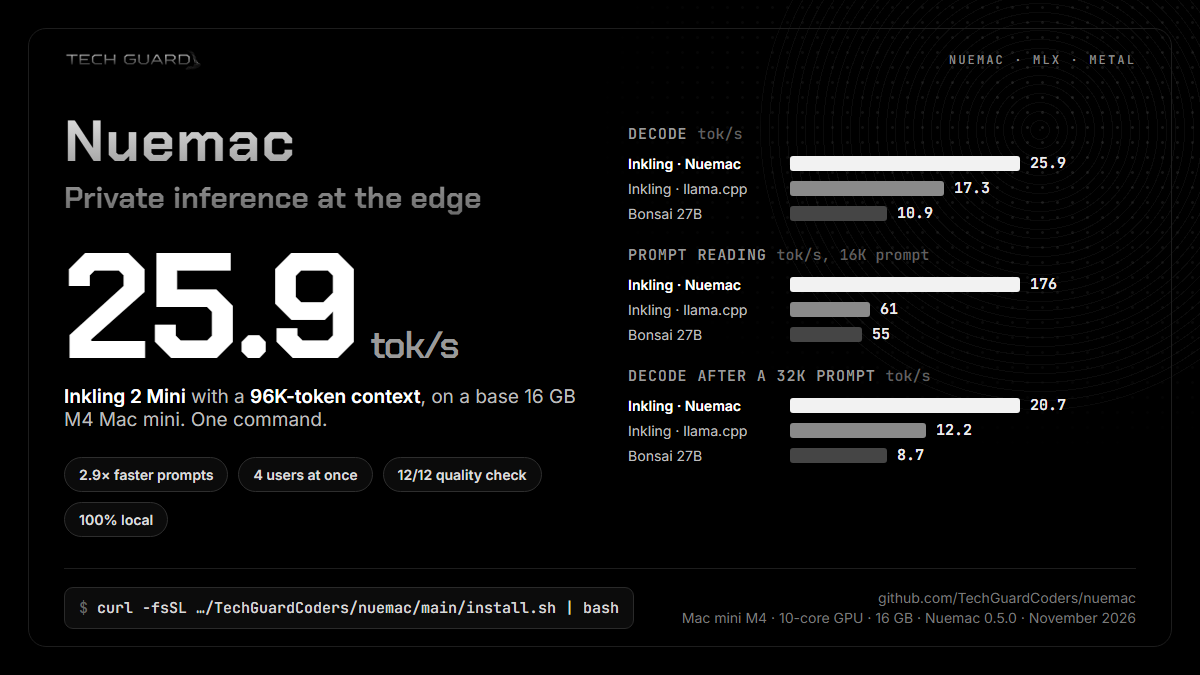
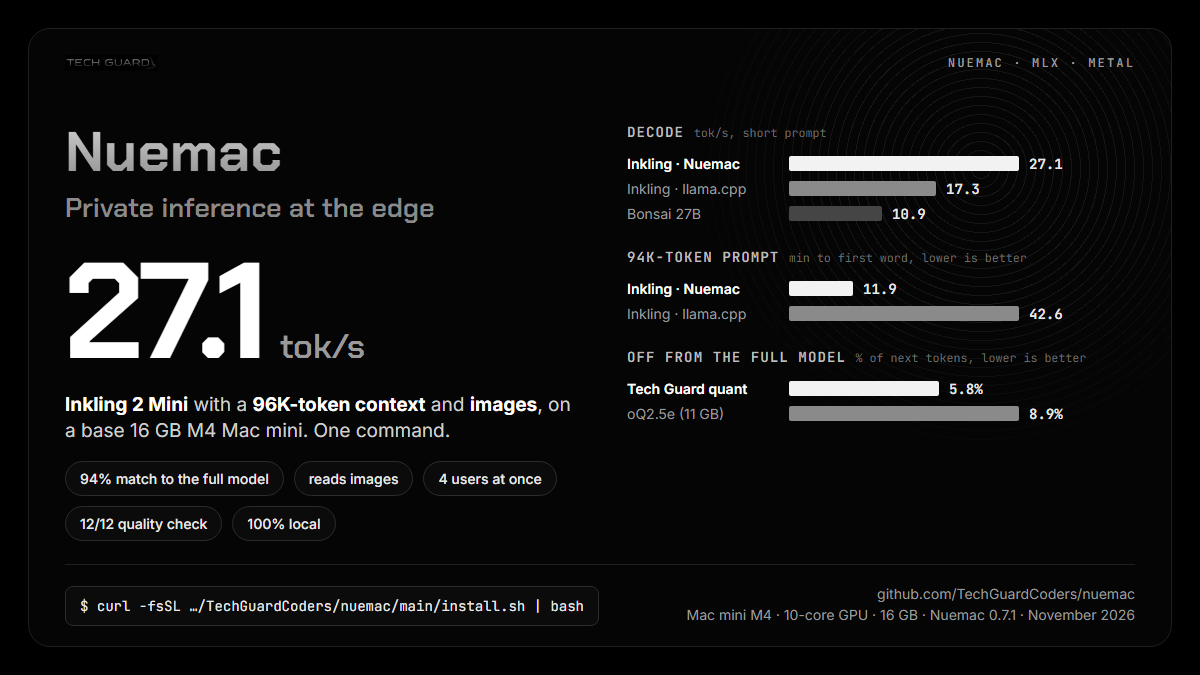
Nuemac 0.7.1: Tech Guard quant as the 16 GB default, agent installs
- inkling-2-mini-tg: Techguardai/Inkling-2-Mini-TG-MLX@dceee3c (11.2 GB text + released vision tower),
  94.2% top-1 agreement with the full model (oQ2.5e 91.1%), 27.1 tok/s on a base 16 GB M4; installer default on 16 GB
- install.sh --yes for scripts and AI agents; sudo -n without a terminal, NEEDS A PERSON message otherwise
- AGENTS.md; README, landing page, supported models, changelog; new infographic (source in docs/assets)

diff --git a/docs/assets/infographic.html b/docs/assets/infographic.html
@@ -1,0 +1,68 @@
+<!doctype html>
+<html><head><meta charset="utf-8">
+<link href="https://fonts.googleapis.com/css2?family=Chakra+Petch:wght@500;600;700&family=Inter:wght@400;500;600;700&family=JetBrains+Mono:wght@400;600&display=swap" rel="stylesheet">
+<style>
+*{box-sizing:border-box}
+html,body{margin:0;width:1200px;height:675px;background:#000;color:#e9e9e9;font-family:Inter,sans-serif;overflow:hidden}
+.card{position:absolute;inset:28px;border:1px solid #1f1f1f;border-radius:22px;background:#050505;overflow:hidden}
+.rings{position:absolute;right:-120px;top:-170px;width:620px;height:620px;border-radius:50%;
+  background:repeating-radial-gradient(circle,rgba(255,255,255,.07) 0 1px,transparent 1px 9px);
+  -webkit-mask:radial-gradient(circle,#000 30%,transparent 70%);mask:radial-gradient(circle,#000 30%,transparent 70%)}
+.top{position:absolute;left:36px;right:36px;top:26px;display:flex;justify-content:space-between;align-items:center}
+.top img{height:16px;opacity:.75}
+.top .tag{font:600 12px "JetBrains Mono",monospace;letter-spacing:.18em;color:#9a9a9a}
+.left{position:absolute;left:36px;top:86px;width:520px}
+h1{font:700 56px "Chakra Petch",sans-serif;margin:0;background:linear-gradient(#d6d6d6,#8a8a8a);-webkit-background-clip:text;color:transparent}
+.sub{font:600 27px "Chakra Petch",sans-serif;color:#8a8a8a;margin-top:2px}
+.big{display:flex;align-items:baseline;gap:14px;margin-top:22px}
+.big b{font:700 136px/0.95 "Chakra Petch",sans-serif;color:#fff;letter-spacing:-.02em}
+.big span{font:600 34px "Chakra Petch",sans-serif;color:#9a9a9a}
+.lede{font-size:19px;line-height:1.35;margin-top:16px;color:#cfcfcf}
+.lede strong{color:#fff}
+.chips{display:flex;flex-wrap:wrap;gap:10px;margin-top:18px;width:500px}
+.chips div{font:500 14px Inter,sans-serif;border:1px solid #2c2c2c;border-radius:999px;padding:8px 14px;color:#e9e9e9;background:#0b0b0b}
+.right{position:absolute;left:598px;top:94px;width:520px}
+.grp{margin-bottom:22px}
+.grp h4{font:600 14px "JetBrains Mono",monospace;letter-spacing:.08em;color:#bdbdbd;margin:0 0 10px;text-transform:uppercase}
+.grp h4 small{text-transform:none;letter-spacing:0;color:#6b6b6b;font-weight:400}
+.row{display:grid;grid-template-columns:162px 1fr;align-items:center;height:25px;font-size:14px;color:#9a9a9a}
+.row.us{color:#fff;font-weight:600}
+.bar{display:flex;align-items:center;gap:10px}
+.bar i{display:block;height:15px;border-radius:2px}
+.bar em{font:600 14px "JetBrains Mono",monospace;font-style:normal;color:#e9e9e9}
+.a i{background:#f2f2f2}.c i{background:#8a8a8a}.b i{background:#454545}
+.foot{position:absolute;left:36px;right:36px;bottom:20px;border-top:1px solid #1f1f1f;padding-top:18px;display:flex;justify-content:space-between;align-items:flex-end}
+.cmd{font:400 14px "JetBrains Mono",monospace;border:1px solid #2c2c2c;border-radius:8px;padding:10px 14px;background:#0b0b0b;color:#e9e9e9}
+.meta{text-align:right;font-size:14px;color:#9a9a9a;line-height:1.55}
+</style></head><body>
+<div class="card">
+  <div class="rings"></div>
+  <div class="top"><img src="techguard-wordmark.png" alt=""><div class="tag">NUEMAC · MLX · METAL</div></div>
+  <div class="left">
+    <h1>Nuemac</h1>
+    <div class="sub">Private inference at the edge</div>
+    <div class="big"><b>27.1</b><span>tok/s</span></div>
+    <div class="lede"><strong>Inkling 2 Mini</strong> with a <strong>96K-token context</strong> and <strong>images</strong>, on a base 16 GB M4 Mac mini. One command.</div>
+    <div class="chips"><div>94% match to the full model</div><div>reads images</div><div>4 users at once</div><div>12/12 quality check</div><div>100% local</div></div>
+  </div>
+  <div class="right">
+    <div class="grp"><h4>Decode <small>tok/s, short prompt</small></h4>
+      <div class="row us"><span>Inkling · Nuemac</span><div class="bar a"><i style="width:230px"></i><em>27.1</em></div></div>
+      <div class="row"><span>Inkling · llama.cpp</span><div class="bar c"><i style="width:147px"></i><em>17.3</em></div></div>
+      <div class="row"><span>Bonsai 27B</span><div class="bar b"><i style="width:93px"></i><em>10.9</em></div></div>
+    </div>
+    <div class="grp"><h4>94K-token prompt <small>min to first word, lower is better</small></h4>
+      <div class="row us"><span>Inkling · Nuemac</span><div class="bar a"><i style="width:64px"></i><em>11.9</em></div></div>
+      <div class="row"><span>Inkling · llama.cpp</span><div class="bar c"><i style="width:230px"></i><em>42.6</em></div></div>
+    </div>
+    <div class="grp"><h4>Off from the full model <small>% of next tokens, lower is better</small></h4>
+      <div class="row us"><span>Tech Guard quant</span><div class="bar a"><i style="width:150px"></i><em>5.8%</em></div></div>
+      <div class="row"><span>oQ2.5e (11 GB)</span><div class="bar c"><i style="width:230px"></i><em>8.9%</em></div></div>
+    </div>
+  </div>
+  <div class="foot">
+    <div class="cmd">$ curl -fsSL …/TechGuardCoders/nuemac/main/install.sh | bash</div>
+    <div class="meta">github.com/TechGuardCoders/nuemac<br>Mac mini M4 · 10-core GPU · 16 GB · Nuemac 0.7.1 · November 2026</div>
+  </div>
+</div>
+</body></html>

diff --git a/docs/index.html b/docs/index.html
@@ -4,9 +4,9 @@
 <meta charset="utf-8">
 <meta name="viewport" content="width=device-width, initial-scale=1">
 <title>Nuemac: private inference at the edge</title>
-<meta name="description" content="Nuemac: private inference at the edge. A local LLM engine that brings 16 GB Macs to life. Inkling 2 Mini at 25.9 tok/s with a 96K context on a base 16 GB M4 Mac mini, up to 4 requests at once, now reading images.">
+<meta name="description" content="Nuemac: private inference at the edge. A local LLM engine that brings 16 GB Macs to life. Inkling 2 Mini at 27.1 tok/s with a 96K context and images on a base 16 GB M4 Mac mini, 94% match to the full model, up to 4 requests at once.">
 <meta property="og:title" content="Nuemac: private inference at the edge">
-<meta property="og:description" content="Inkling 2 Mini at 25.9 tok/s with a 96K context on a base 16 GB M4 Mac mini. Up to 4 requests at once. Reads images. One command. MLX with custom Metal kernels.">
+<meta property="og:description" content="Inkling 2 Mini at 27.1 tok/s with a 96K context on a base 16 GB M4 Mac mini, 94% match to the full model. Up to 4 requests at once. Reads images. One command. MLX with custom Metal kernels.">
 <meta property="og:image" content="https://techguardcoders.github.io/nuemac/assets/infographic.png">
 <meta name="twitter:card" content="summary_large_image">
 <link rel="icon" href="assets/tg-monogram.png">
@@ -137,15 +137,15 @@ footer img{height:16px;opacity:.8}
           <code id="cmd"><span class="p">$ </span>curl -fsSL https://raw.githubusercontent.com/TechGuardCoders/nuemac/main/install.sh | bash</code>
           <button class="copy" id="copy" type="button">Copy</button>
         </div>
-        <div class="sub">Installs oMLX (Homebrew) and Nuemac, downloads ~11 GB and checks every file's SHA-256, asks before raising the GPU memory limit.</div>
+        <div class="sub">Installs oMLX (Homebrew) and Nuemac, downloads ~12 GB and checks every file's SHA-256, asks before raising the GPU memory limit. Installing with an AI agent? Point it at <a href="https://github.com/TechGuardCoders/nuemac/blob/main/AGENTS.md">AGENTS.md</a>.</div>
       </div>
       <div class="stat-card">
-        <div class="big">25.9<small>tok/s</small></div>
+        <div class="big">27.1<small>tok/s</small></div>
         <div class="k">Inkling 2 Mini decode, one user · base Mac mini M4 16 GB</div>
         <div class="kv">
           <div><b>96K</b><span>context, 8-bit global KV cache</span></div>
           <div><b>12/12</b><span>known-answer check</span></div>
-          <div><b>191</b><span>tok/s prompt reading, 2.8× llama.cpp</span></div>
+          <div><b>94%</b><span>next-token match to the full model</span></div>
           <div><b>$0</b><span>per token, runs on your Mac</span></div>
         </div>
         <div class="sub" style="margin-top:18px">On a 24 GB Mac mini M4 Pro: <b>42.5 tok/s</b> with a <b>256K</b> context, prompts read at <b>337-349 tok/s</b>. The installer picks the build for your Mac's memory.</div>
@@ -271,14 +271,14 @@ footer img{height:16px;opacity:.8}
       <table class="cmp">
         <thead><tr><th>Build</th><th>Size</th><th>Top-1 agreement</th><th>KL</th></tr></thead>
         <tbody>
-          <tr><td>mlx-community oQ2.5e (16 GB download)</td><td>10.9 GB</td><td>91.1%</td><td>0.099</td></tr>
-          <tr><td class="us">Tech Guard custom build (sensitivity-allocated experts)</td><td class="us">11.2 GB</td><td class="us">94.2%</td><td class="us">0.041</td></tr>
+          <tr><td>mlx-community oQ2.5e (16 GB download until 0.7.1)</td><td>10.9 GB</td><td>91.1%</td><td>0.099</td></tr>
+          <tr><td class="us"><a href="https://huggingface.co/Techguardai/Inkling-2-Mini-TG-MLX">Tech Guard quant</a> (16 GB download since 0.7.1)</td><td class="us">11.2 GB</td><td class="us">94.2%</td><td class="us">0.041</td></tr>
           <tr><td>mlx-community oQ3e (24 GB download)</td><td>12.3 GB</td><td>94.4%</td><td>0.040</td></tr>
           <tr><td>mlx-community oQ4e</td><td>16 GB</td><td>95.6%</td><td>0.024</td></tr>
         </tbody>
       </table>
     </div>
-    <p class="note">The custom build reaches oQ3e's accuracy at a size that runs a 96K context on a 16 GB M4: 27.1 tok/s decode, 37.0 total at 4 requests, 44.7 rewriting, a 94K-token prompt in 712 s with the needle found, images included. It is not published yet; <code style="font:13px JetBrains Mono,monospace">MODEL_PATH</code> serves your own build.</p>
+    <p class="note">The custom build reaches oQ3e's accuracy at a size that runs a 96K context on a 16 GB M4: 27.1 tok/s decode, 37.0 total at 4 requests, 44.7 rewriting, a 94K-token prompt in 712 s with the needle found, images included. Published as <a href="https://huggingface.co/Techguardai/Inkling-2-Mini-TG-MLX">Techguardai/Inkling-2-Mini-TG-MLX</a> (Apache-2.0); the installer picks it on 16 GB Macs.</p>
   </div>
 </section>
 

diff --git a/engine/server.py b/engine/server.py
@@ -38,7 +38,7 @@ from mlx_lm.sample_utils import make_sampler  # noqa: E402
 
 from families import ContextFull, for_model  # noqa: E402
 
-__version__ = "0.7.0"
+__version__ = "0.7.1"
 log = logging.getLogger("nuemac")
 
 BANDS = (4096, 8192, 16384, 32768, 65536, 131072, 262144, 524288)

diff --git a/README.md b/README.md
@@ -2,7 +2,7 @@
 
 **Private inference at the edge.**
 
-<p align="center"><img src="docs/assets/infographic.png" alt="Nuemac: private inference at the edge. Inkling 2 Mini at 25.9 tok/s with a 96K context on a base 16 GB M4 Mac mini, up to 4 requests at once" width="820"></p>
+<p align="center"><img src="docs/assets/infographic.png" alt="Nuemac: private inference at the edge. Inkling 2 Mini at 27.1 tok/s with a 96K context and images on a base 16 GB M4 Mac mini, 94% match to the full model, up to 4 requests at once" width="820"></p>
 
 Nuemac gives the Mac you already own a new life as a private AI machine. It's a local LLM engine for
 memory-tight Apple Silicon: big open models with long contexts, on a 16 GB Mac mini, served as an
@@ -15,6 +15,10 @@ kernels for each model family. One command installs it and a model, and one more
 ```bash
 curl -fsSL https://raw.githubusercontent.com/TechGuardCoders/nuemac/main/install.sh | bash
 ```
+
+Installing with an AI agent? Tell it: *"Install Nuemac by following
+https://github.com/TechGuardCoders/nuemac/blob/main/AGENTS.md"*. The steps are non-interactive (`--yes`), except
+one `sudo` line it hands back to you when the Mac needs it.
 
 Landing page: <https://techguardcoders.github.io/nuemac/>
 
@@ -101,7 +105,8 @@ telemetry and no per-token bill.
 
 | Model | Machine checked | Speed | Recipe |
 | --- | --- | --- | --- |
-| **Inkling 2 Mini** (Thinking Machines), MLX oQ2.5e, 96K context, text + images: `inkling-2-mini` | Mac mini M4, 16 GB | **25.9 tok/s** decode, 191 tok/s prefill, 20.7 tok/s at 32K; 36.3 tok/s total at 4 requests; 43.5 tok/s rewriting a file | [inkling-2-mini](docs/recipes/inkling-2-mini.md) |
+| **Inkling 2 Mini**, [Tech Guard MLX quant](https://huggingface.co/Techguardai/Inkling-2-Mini-TG-MLX) (11.2 GB, 94.2% match to the full model), 96K context, text + images: `inkling-2-mini-tg` (16 GB default since 0.7.1) | Mac mini M4, 16 GB | **27.1 tok/s** decode (26.2 on code); 37.0 tok/s total at 4 requests; 44.7 tok/s rewriting a file; a 94K-token prompt in 11.9 min | [inkling-2-mini](docs/recipes/inkling-2-mini.md) |
+| **Inkling 2 Mini**, mlx-community oQ2.5e (91.1% match), 96K context, text + images: `inkling-2-mini` (16 GB default until 0.7.1) | Mac mini M4, 16 GB | **25.9 tok/s** decode, 191 tok/s prefill, 20.7 tok/s at 32K; 36.3 tok/s total at 4 requests; 43.5 tok/s rewriting a file | [inkling-2-mini](docs/recipes/inkling-2-mini.md) |
 | **Inkling 2 Mini**, MLX oQ3e, 256K context, text + images: `inkling-2-mini-oq3e` | Mac mini M4 Pro, 24 GB | **42.5 tok/s** decode, 337-349 tok/s prefill (0.6.1), 34.8 tok/s at 24K, a 120K prompt in 8.2 min; 61.5 tok/s total at 4 requests; 69.4 tok/s rewriting a file | [inkling-2-mini, 24 GB](docs/recipes/inkling-2-mini.md#24-gb-m4-pro-256k-context) |
 
 The installer picks the build for your Mac's memory: the 16 GB build below 24 GB, the 256K build at 24 GB or more.
@@ -172,15 +177,16 @@ Agreement with the released model (top-1 next token and KL against its top-20 lo
 
 | build | size | top-1 agreement | KL | perplexity |
 | --- | --- | --- | --- | --- |
-| mlx-community oQ2.5e (the 16 GB download) | 10.9 GB | 91.1% | 0.099 | +10.7% |
-| Tech Guard custom build (sensitivity-allocated 2-4 bit experts) | 11.2 GB | **94.2%** | 0.041 | +4.5% |
+| mlx-community oQ2.5e (the 16 GB download until 0.7.1) | 10.9 GB | 91.1% | 0.099 | +10.7% |
+| [Tech Guard quant](https://huggingface.co/Techguardai/Inkling-2-Mini-TG-MLX) (sensitivity-allocated 2- and 3-bit experts; the 16 GB download since 0.7.1) | 11.2 GB | **94.2%** | 0.041 | +4.5% |
 | mlx-community oQ3e (the 24 GB download) | 12.3 GB | 94.4% | 0.040 | +4.3% |
 | mlx-community oQ4e | 16 GB | 95.6% | 0.024 | +2.6% |
 
 The custom build spends bits where measured sensitivity says the model is fragile and fewer where it isn't, and
 reaches oQ3e's accuracy at a size that runs a 96K context on 16 GB (27.1 tok/s decode, 37.0 total at 4 requests,
-44.7 rewriting, a 94K-token prompt in 712 s with the needle found). It is not published yet; serve your own build
-with `MODEL_PATH` (below).
+44.7 rewriting, a 94K-token prompt in 712 s with the needle found). It is published as
+[Techguardai/Inkling-2-Mini-TG-MLX](https://huggingface.co/Techguardai/Inkling-2-Mini-TG-MLX) (Apache-2.0) and is the
+default on 16 GB Macs from 0.7.1; on an existing install, `nuemac use inkling-2-mini-tg`.
 
 ## Requirements
 

diff --git a/docs/supported-models.md b/docs/supported-models.md
@@ -9,7 +9,9 @@ macOS itself need memory beyond the weights. Each model's recipe lists its measu
 
 | Model / format | Weights (pinned) | Machine checked and memory | Recipe / limits |
 | --- | --- | --- | --- |
-| **Inkling 2 Mini**, MLX oQ2.5e (mixed 2/3-bit experts, 8-bit attention), 96K context | [`mlx-community/Inkling-2-Mini-oQ2.5e-mtp@d4a4f3f`](https://huggingface.co/mlx-community/Inkling-2-Mini-oQ2.5e-mtp/tree/d4a4f3f555fdf6f06102de1865d07e8ac5effe6d), 10.9 GB (the drafter file is skipped) | Mac mini M4 (10-core GPU), 16 GB, macOS 26.5. GPU wired limit 14.5 GB; ~12 GB in use at 96K; 10-13% system memory free under load. | [inkling-2-mini](recipes/inkling-2-mini.md). Text and images (0.7.0: the vision tower loads per image on a 16 GB Mac); no audio. Up to 4 requests at once (`--slots`); see [concurrent requests](recipes/inkling-2-mini.md#concurrent-requests-050). Tested with oMLX 0.8.2 and 0.8.3; refuses to start if the oMLX internals it patches have changed. |
+| **Inkling 2 Mini**, Tech Guard MLX quant (3-bit experts with 2-bit where measured safe, 6/8-bit attention, released vision tower), 96K context: `inkling-2-mini-tg`, **16 GB default since 0.7.1** | [`Techguardai/Inkling-2-Mini-TG-MLX@dceee3c`](https://huggingface.co/Techguardai/Inkling-2-Mini-TG-MLX/tree/dceee3c4d4f323fc25834ea8e85509b798e4323b), 11.8 GB | Mac mini M4 (10-core GPU), 16 GB, macOS 26.5. GPU wired limit 14.5 GB; 10.4 GiB weights, 2.3 GiB for caches; a 94K-token prompt with 7% system memory free. | [inkling-2-mini](recipes/inkling-2-mini.md#images-070). Text and images (the vision tower loads per image); 94.2% top-1 agreement with the full model. |
+
+| **Inkling 2 Mini**, MLX oQ2.5e (mixed 2/3-bit experts, 8-bit attention), 96K context (16 GB default until 0.7.1) | [`mlx-community/Inkling-2-Mini-oQ2.5e-mtp@d4a4f3f`](https://huggingface.co/mlx-community/Inkling-2-Mini-oQ2.5e-mtp/tree/d4a4f3f555fdf6f06102de1865d07e8ac5effe6d), 10.9 GB (the drafter file is skipped) | Mac mini M4 (10-core GPU), 16 GB, macOS 26.5. GPU wired limit 14.5 GB; ~12 GB in use at 96K; 10-13% system memory free under load. | [inkling-2-mini](recipes/inkling-2-mini.md). Text and images (0.7.0: the vision tower loads per image on a 16 GB Mac); no audio. Up to 4 requests at once (`--slots`); see [concurrent requests](recipes/inkling-2-mini.md#concurrent-requests-050). Tested with oMLX 0.8.2 and 0.8.3; refuses to start if the oMLX internals it patches have changed. |
 
 | **Inkling 2 Mini**, MLX oQ3e (3-bit experts, 8-bit attention), 256K context: `inkling-2-mini-oq3e` | [`mlx-community/Inkling-2-Mini-oQ3e-mtp@5552e32`](https://huggingface.co/mlx-community/Inkling-2-Mini-oQ3e-mtp/tree/5552e32ec7a50fa8e9b0bfe2002aab72f8b78975), 13.1 GB (the drafter file is skipped) | Mac mini M4 Pro (16-core GPU), 24 GB, macOS 26.6. GPU wired limit 19.3 GB or more; 12.1 GiB weights + 4.6 GB global cache at 256K; 17-19% system memory free under load. Needs 24 GB. | [inkling-2-mini, 24 GB](recipes/inkling-2-mini.md#24-gb-m4-pro-256k-context). Same limits as the 16 GB build. |
 

diff --git a/AGENTS.md b/AGENTS.md
@@ -1,0 +1,62 @@
+# Installing Nuemac: instructions for an AI agent
+
+You are setting up Nuemac, a local OpenAI-compatible LLM server, on the user's Mac. Follow these steps in order.
+Every command is non-interactive except the one `sudo` line in step 3, which a person may have to run.
+
+## 1. Check the Mac
+
+```bash
+uname -m; sw_vers -productVersion; sysctl -n hw.memsize; command -v brew || ls /opt/homebrew/bin/brew
+```
+
+Needs: `arm64`, macOS 14 or newer, 16 GB or more (`hw.memsize` >= 17179869184 is 16 GB), Homebrew, ~15 GB free
+disk. If Homebrew is missing, stop and ask the user to install it from https://brew.sh (it needs their password).
+
+## 2. Install
+
+```bash
+curl -fsSL https://raw.githubusercontent.com/TechGuardCoders/nuemac/main/install.sh | bash -s -- --yes
+```
+
+This takes 5-30 minutes (an ~12 GB download, resumed if interrupted; every file is checked against its SHA-256).
+It picks the model for the Mac's memory: `inkling-2-mini-tg` (96K context) on 16 GB, `inkling-2-mini-oq3e`
+(256K) on 24 GB or more. Other options: `--port N` (default 8080), `--model NAME`, `--no-start`, `--dry-run`.
+
+## 3. GPU memory limit (may need a person)
+
+macOS lets the GPU use only ~2/3 of memory by default; the model needs more. The installer raises the limit with
+`sudo`. If it printed `NEEDS A PERSON`, ask the user to run, in their own terminal:
+
+```bash
+sudo sysctl iogpu.wired_limit_mb=14500
+```
+
+(the installer prints the exact number for this Mac: 14500 on 16 GB, 19300 on 24 GB), then run
+`~/.nuemac/bin/nuemac restart`. The setting resets at reboot unless the user also accepted the boot job; to make it
+permanent they can re-run the installer in a terminal.
+
+## 4. Verify
+
+```bash
+~/.nuemac/bin/nuemac status        # "server up" and the engine version
+~/.nuemac/bin/nuemac qa            # must print "quality check: 12/12" (11/12 is acceptable; less is a problem)
+curl -s http://127.0.0.1:8080/v1/models
+```
+
+If `qa` fails or the server is not up, read `~/.nuemac/bin/nuemac logs` and report what it says. The most common
+cause is the GPU limit from step 3, or another large app (a Docker VM, another model server) holding memory.
+
+## 5. Hand over
+
+Tell the user:
+- Endpoint `http://127.0.0.1:8080/v1` (OpenAI-compatible, any API key), model id `inkling-2-mini`. Loopback only:
+  nothing leaves the Mac.
+- It supports streaming, tool calls, `reasoning_effort` (`low` / `medium` / `high`), up to 4 requests at once, and
+  images as `image_url` parts (base64 `data:` URLs or http(s) links).
+- The server starts at login. `nuemac stop` / `start` / `status` / `bench` manage it; `nuemac uninstall` removes the
+  login service (files stay in `~/.nuemac`).
+
+## Updating an existing install
+
+Re-run the step 2 command; it keeps `~/.nuemac/settings`. To switch a 16 GB Mac from the older `inkling-2-mini`
+build to `inkling-2-mini-tg`: `~/.nuemac/bin/nuemac use inkling-2-mini-tg` (downloads it, then restarts).

diff --git a/CHANGELOG.md b/CHANGELOG.md
@@ -2,6 +2,18 @@
 
 Speeds are from `nuemac bench`: a base Mac mini M4 (10-core GPU, 16 GB) at 96K context unless a line says otherwise.
 
+## 0.7.1 - 2026-11-23: a better 16 GB model, agent installs
+
+- New 16 GB default model `inkling-2-mini-tg`: [Techguardai/Inkling-2-Mini-TG-MLX](https://huggingface.co/Techguardai/Inkling-2-Mini-TG-MLX), Tech Guard's 11.2 GB
+  MLX quant of Inkling 2 Mini with per-tensor bits chosen from measured sensitivity (3-bit experts, 2-bit where it
+  measured safe, 6/8-bit attention, 4-bit embedding, 6-bit head) plus the released vision tower. Against the
+  released model: 94.2% top-1 agreement, KL 0.041 (oQ2.5e: 91.1%, 0.099), for 0.3 GB more. Base M4 16 GB: 27.1
+  tok/s prose, 26.2 code, 37.0 total at 4 requests, 44.7 rewriting, a 94K-token prompt in 712 s (needle found),
+  quality check 12/12, vision checks 6/6. Existing installs: `nuemac use inkling-2-mini-tg`.
+- `install.sh --yes` answers every question, for scripts and AI agents. Without a terminal, sudo is tried
+  non-interactively (`sudo -n`); if it can't run, the installer prints `NEEDS A PERSON` and the exact command.
+- [AGENTS.md](AGENTS.md): the install, verify and hand-over steps for an AI agent.
+
 ## 0.7.0 - 2026-11-23: images
 
 - Inkling 2 Mini reads images. Send OpenAI-style `image_url` parts (base64 `data:` URLs or http(s) links) in user or
